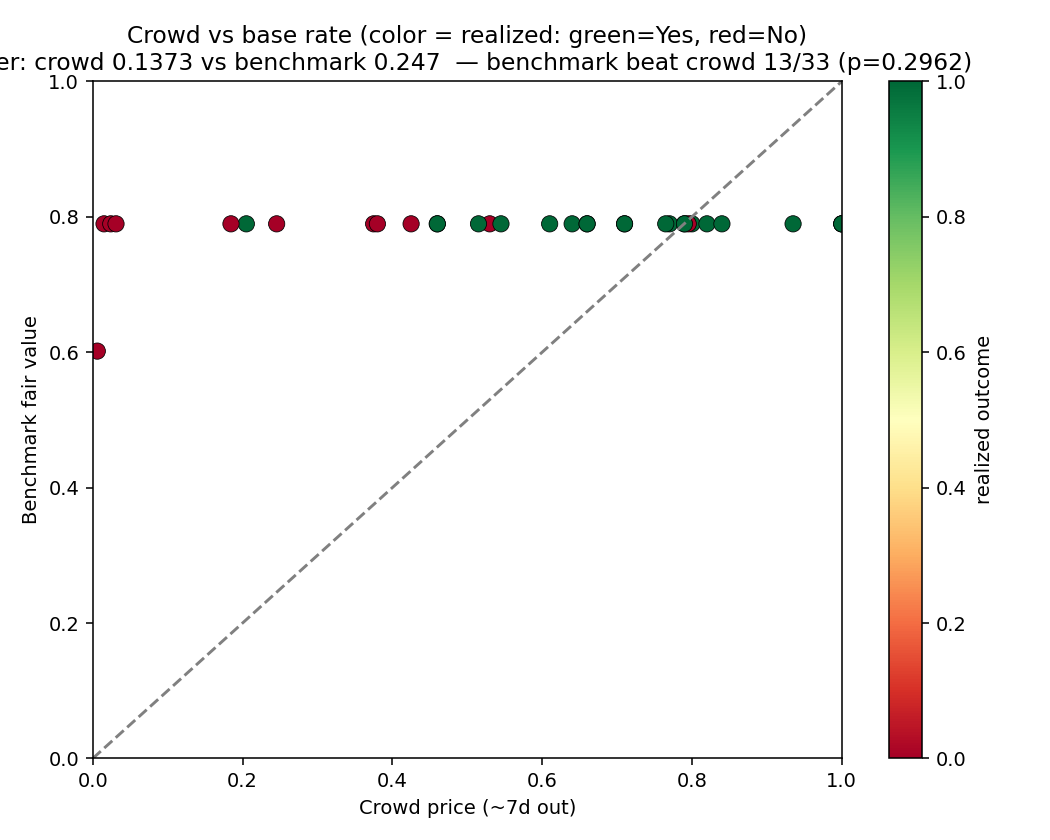
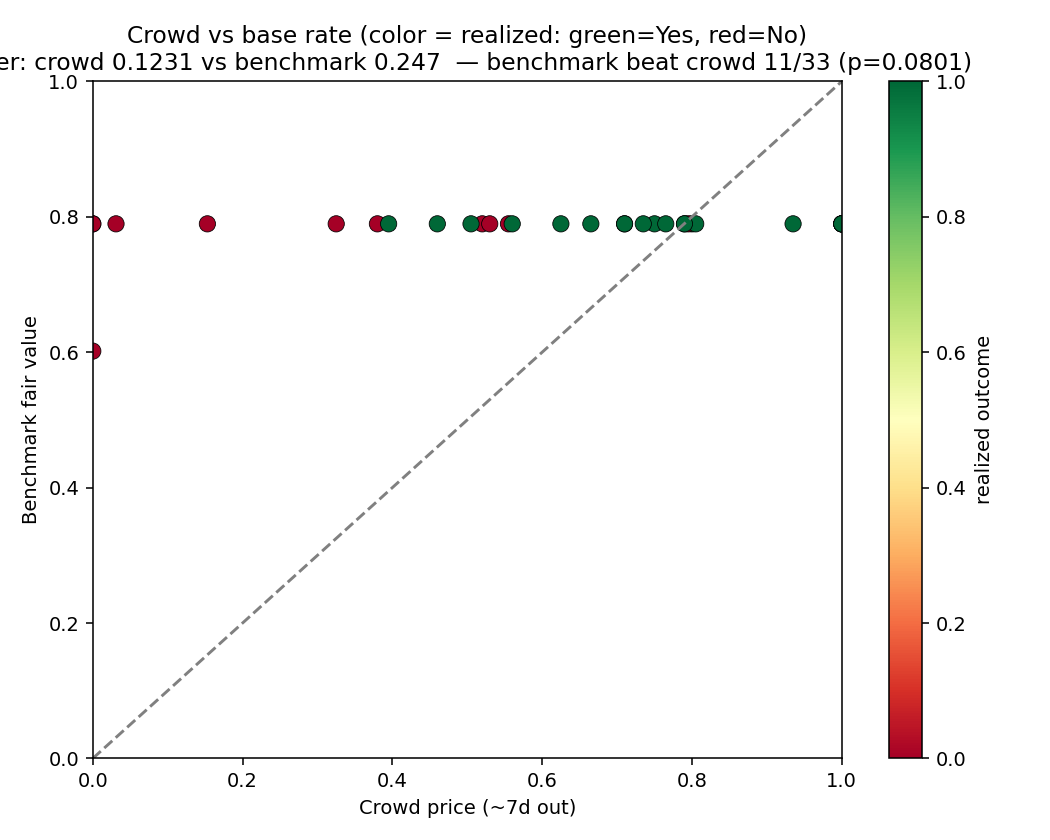
Re-anchor before-resolution metrics to the actual FDA action; capture the resolve-by grace window
Two timing fixes the dataset wasn't accounting for:

- ANCHOR: prob_7d/3d/1d (and lead_days, surprise) now anchor to outcome_date (the actual FDA action), not closed_time (formal settlement, which lags the event by up to 52 days for some markets). The old anchor measured post-event prices and flattered the crowd. Re-anchoring moved headline accuracy 24/30 -> 18/24 at 1 day, Brier 0.136 -> 0.156; EYLEA HD flips from a 'correct' No (0.015, post-delay) to wrong (0.55, the day before the delay); UX111/Vepdegestrant correctly go blank (no genuine pre-event price). process_markets._resolution_unix, and the independent recompute anchors in audit.py and make_figures.py, all updated to match.

- RESOLVE-BY: new resolve_by_date column parsed from each contract's resolution rules. These markets resolve Yes if approval lands within a uniform ~14-day grace past end_date (Oclaiz end 06-10 resolves by June 24; Arcalyst end 06-19 by July 3). end_date is the expected PDUFA, not the deadline; the benchmark's extension_rate is therefore conservative for these markets.

- Synced FINDINGS.md, LIMITATIONS.md (new section 9), methodology.md to the re-anchored numbers and the grace window. audit.py PROSE_RESID literal updated. All checks pass (0 failures).

diff --git a/process_markets.py b/process_markets.py
@@ -20,8 +20,9 @@ import argparse
 import csv
 import json
 import os
+import re
 import time
-from datetime import datetime, timezone
+from datetime import datetime, timedelta, timezone
 
 import pandas as pd
 import requests
@@ -170,15 +171,47 @@ def write_series(path, hist):
 
 
 def _resolution_unix(row):
-    """Best timestamp for 'resolution': closed_time, else end_date."""
-    for key in ("closed_time", "end_date"):
+    """Anchor for the before-resolution price metrics.
+
+    Prefer `outcome_date` (the actual FDA action) so prob_7d/3d/1d are measured
+    BEFORE the real news, not after a formal settlement that can lag the event by
+    weeks. Several markets keep trading (price pinned at ~0/~1) for days or weeks
+    after the FDA has acted, until the market's resolve-by window closes; anchoring
+    to closed_time there would measure a post-event price and flatter the crowd's
+    apparent foresight. Fall back to closed_time, then end_date (e.g. open markets,
+    where outcome_date is 'pending').
+    """
+    for key in ("outcome_date", "closed_time", "end_date"):
         v = row.get(key)
-        if v:
+        if v and str(v).strip().lower() not in ("", "pending", "n/a", "nan", "none"):
             try:
                 return datetime.fromisoformat(str(v).replace("Z", "+00:00")).timestamp()
             except ValueError:
                 continue
     return None
+
+
+def _resolve_by_date(row):
+    """The market's TRUE resolve-by date, read from its resolution rules.
+
+    Polymarket's FDA contracts resolve Yes if the approval lands by a date stated
+    in the description ('...approval...by [Month D, YYYY]'), which for these
+    markets is a uniform ~14-day grace past `end_date`. `end_date` is the expected
+    PDUFA; this is the actual settlement deadline. Falls back to end_date + 14 days
+    if the description can't be parsed.
+    """
+    desc = str(row.get("event_description") or "")
+    m = re.search(r"\bby ([A-Z][a-z]+ \d{1,2},? \d{4})", desc)
+    if m:
+        try:
+            return datetime.strptime(m.group(1).replace(",", ""), "%B %d %Y").strftime("%Y-%m-%d")
+        except ValueError:
+            pass
+    try:
+        d = datetime.fromisoformat(str(row.get("end_date")).replace("Z", "+00:00")).replace(tzinfo=None)
+        return (d + timedelta(days=14)).strftime("%Y-%m-%d")
+    except (ValueError, TypeError):
+        return ""
 
 
 def price_at(hist, target_unix):
@@ -380,6 +413,7 @@ def main():
 
         m = daily_metrics(hist, row)
         m["slug"] = slug
+        m["resolve_by_date"] = _resolve_by_date(row)
         metrics_rows.append(m)
 
         if m["max_1d_move"] and m["max_1d_move"] >= SHARP_MOVE:

diff --git a/audit.py b/audit.py
@@ -64,9 +64,13 @@ def warn(name, detail):
 
 
 def res_unix(row):
-    for k in ("closed_time", "end_date"):
+    # Anchor before-resolution prices to the actual FDA action (outcome_date),
+    # not the formal settlement (closed_time), which can lag the event by weeks.
+    # Mirrors process_markets._resolution_unix so this recompute stays independent
+    # in code but consistent in definition.
+    for k in ("outcome_date", "closed_time", "end_date"):
         v = row.get(k)
-        if isinstance(v, str) and v:
+        if isinstance(v, str) and v and v.strip().lower() not in ("", "pending", "n/a", "nan", "none"):
             try:
                 return datetime.fromisoformat(v.replace("Z", "+00:00")).timestamp()
             except ValueError:
@@ -377,7 +381,7 @@ def main():
     check("fig9 residual means per axis == independent recompute", ok9)
     fc = r9[r9["axis_indep"] == "First-cycle (no prior CRL)"]
     rf = r9[r9["axis_indep"] == "Prior-CRL refile"]
-    PROSE_RESID = {"first_cycle": (0.114, 20), "refile": (-0.142, 3)}  # quoted in docs
+    PROSE_RESID = {"first_cycle": (0.110, 18), "refile": (-0.325, 3)}  # quoted in docs (outcome_date anchor)
     check("FINDINGS residual prose matches code",
           abs(fc["resid"].mean() - PROSE_RESID["first_cycle"][0]) < 5e-4
           and len(fc) == PROSE_RESID["first_cycle"][1]

diff --git a/make_figures.py b/make_figures.py
@@ -68,9 +68,10 @@ def _b(x):
 
 
 def _res_unix(row):
-    for k in ("closed_time", "end_date"):
+    # Anchor to the actual FDA action (outcome_date), matching process_markets.
+    for k in ("outcome_date", "closed_time", "end_date"):
         v = row.get(k)
-        if isinstance(v, str) and v:
+        if isinstance(v, str) and v and v.strip().lower() not in ("", "pending", "n/a", "nan", "none"):
             try:
                 return datetime.fromisoformat(v.replace("Z", "+00:00")).timestamp()
             except ValueError:

diff --git a/FINDINGS.md b/FINDINGS.md
@@ -44,14 +44,14 @@ of [0,1]); treat as a hypothesis, not a result.
 
 | # | Conclusion | Tier | Evidence (n, Wilson 95% CI) |
 |---|---|---|---|
-| S1 | **The market is reasonably well-calibrated 1 day out.** | SUGGESTIVE | mean Brier 0.136 over n=23 resolved with a 1-day price (fig2). Good, but small n and the curve is sparse in the mid-buckets. |
+| S1 | **The market is reasonably well-calibrated 1 day out.** | SUGGESTIVE | mean Brier 0.156 over n=24, measured 1 day before the actual FDA action (`outcome_date`, not the formal settlement — see LIMITATIONS §9). Good, but small n and the curve is sparse in the mid-buckets. |
 | S2a | **"Resolved No" ≠ "rejected"** (definitional): a No can be a CRL, a withdrawal, *or* a PDUFA delay; the drug may still be approved later. | ROBUST | Resolution rules + enrichment decompose every No into `outcome` (methodology §1). Not cohort-dependent. |
 | S2b | In *this* sample, **22/33 drugs were approved ever vs 21/33 on time.** | SUGGESTIVE | by-date 21/33 = 64% [47%,78%]; ever 22/33 = 67% [50%,80%] (fig8). The specific 1-drug gap is n=33, selection-biased — directional only. |
 | S3 | **A prior-CRL refile resolved on time less often than a first-cycle review** in this sample. | ANECDOTAL | refile 1/3 = 33% [6%,79%] **(n=3)** vs first-cycle 20/30 = 67% [49%,81%] (fig6). The two CIs **overlap heavily** — directionally consistent with FDA priors but the data does **not** establish a real difference. Hypothesis, not result. |
 | S4 | **Priority-review markets resolved on time more often than standard-review ones.** | SUGGESTIVE | priority 12/15 = 80% [55%,93%] vs standard 9/18 = 50% [29%,71%]. `review_type` is pre-knowable in principle but is a hand-label (`unknown` for Tebipenem) not put through the same leakage audit as `risk_category`; CIs overlap. Plausible, not established. |
 | S5 | **The slate ran below the conventional ~83% base rate** (CMC/refile-heavy cohort). | SUGGESTIVE | all-resolved on-time 21/33 = 64% [47%,78%]; CI excludes 0.835. |
 | S6 | **Markets can be confidently wrong intraday** (blindsides exist). | ANECDOTAL | `surprise` fires on a handful (fig3); each is n=1, illustrative not rate-bearing. TLX250 ~80%→CRL is the cleanest case. |
-| S7 | **The crowd is sharper than a transparent FDA base rate.** A pre-registered benchmark whose coefficients are all cited/derived from real FDA data (`benchmark.py`) *loses* to the market out-of-sample. | SUGGESTIVE | crowd Brier **0.137** vs benchmark **0.247**; the base rate beat the crowd only **13/33** (win 39% [25%,56%], sign-test p=0.30) — fig13. Evidence the new FDA markets are **roughly efficient**; a static base rate is not an edge. |
+| S7 | **The crowd is sharper than a transparent FDA base rate.** A pre-registered benchmark whose coefficients are all cited/derived from real FDA data (`benchmark.py`) *loses* to the market out-of-sample. | SUGGESTIVE | crowd Brier **0.123** vs benchmark **0.247**; the base rate beat the crowd only **11/33** (win 33% [20%,50%], sign-test p<0.2) — fig13. Evidence the new FDA markets are **roughly efficient**; a static base rate is not an edge. |
 
 ## (ii) TEMPTING conclusions the data does NOT support (or overstates)
 
@@ -61,7 +61,7 @@ Be exhaustive here — this is the referee's main job.
 |---|---|---|
 | U1 | **"CMC/manufacturing refiles approve on time only 12.5% (1/8)."** | **Look-ahead leakage.** 5 of the 8 had `prior_crl=no` — they are first-cycle CRLs/Delays sorted into a *refile* bucket *because the CMC CRL happened* (EYLEA-HD wasn't even a CRL — a Delay with `crl_reason_class` blank). The pre-identifiable rate is **1/3 = 33% [6%,79%], n=3.** The "12.5%" is not a forecastable base rate; it is the failure set describing itself. |
 | U2 | **"Clean first-cycle reviews approve on time 100% (18/18)."** | **Survivorship at the bucket boundary.** "Clean desk" is a *residual* category: any clean-looking drug that took a surprise CRL is reclassified into "Clinical/efficacy" or "CMC refile" and removed. So 18/18 is partly definitional. Even at face value it is **18/18 = 100%, Wilson 95% [82%, 100%]** (lower bound 0.824) — not "always." The pre-decision first-cycle rate that *keeps* the failures is **20/30 = 67% [49%,81%]** (this cohort is heterogeneous — see confound (d)). |
-| U3 | **"The market forgot its lesson — short the 3 open refiles at 0.72–0.77."** (the README's "alpha") | Fails four ways: (a) base rate is the contaminated 12.5%; the clean comparator is 1/3 = 33%, **n=3, CI [6%,79%]** — you cannot price an edge off that. (b) One of the "three open refiles," **Arcalyst, has `prior_crl=no`** — it is not a refile by the dataset's own flag. (c) The market price **is** the forecast; refiles' mean residual vs the 7-day price is **−0.14 (n=3)** — the market *over*-charged refile risk on average, the opposite of the thesis. (d) Each refile may have fixed its specific CMC issue; the data cannot distinguish that from base-rate skepticism. |
+| U3 | **"The market forgot its lesson — short the 3 open refiles at 0.72–0.77."** (the README's "alpha") | Fails four ways: (a) base rate is the contaminated 12.5%; the clean comparator is 1/3 = 33%, **n=3, CI [6%,79%]** — you cannot price an edge off that. (b) One of the "three open refiles," **Arcalyst, has `prior_crl=no`** — it is not a refile by the dataset's own flag. (c) The market price **is** the forecast; refiles' mean residual vs the 7-day price is **−0.33 (n=3)** — the market *over*-charged refile risk on average, the opposite of the thesis. (d) Each refile may have fixed its specific CMC issue; the data cannot distinguish that from base-rate skepticism. |
 | U4 | **"`manufacturing_inspection_required=yes` predicts failure (1/8)."** | The 8 inspection-required rows are **identical** to the contaminated CMC bucket. The flag is collinear with the outcome and cannot be certified pre-knowable from the data (it may have been set *because* the CRL cited a 483/inspection). Promising lead, but **unverifiable here** — do not trade it. |
 | U5 | **"The risk gradient proves the market mis-prices regulatory risk → alpha."** | The gradient is mostly the leakage of U1–U2. After de-leaking, the only clean axis (prior_crl) has n=3 on the risky side. No mis-pricing is demonstrated *beyond what the price already encoded* (residual test, U3c). |
 | U6 | **"64% on-time is the FDA base rate."** | This is a **selection-biased sample** of *drugs that got a Polymarket market* in 2025–26 — skewed toward contested, refile-heavy, retail-interesting decisions. It is not the population FDA first-cycle rate (~80–87%). n=33. |
@@ -76,8 +76,9 @@ Be exhaustive here — this is the referee's main job.
 ## Confounds tested (§3 of the brief)
 
 - **(a) Already priced?** Residual = outcome − price 7d out (markets with a
-  7-day price, n=23). Refiles mean **−0.14 (n=3)**; first-cycle **+0.11
-  (n=20)**. Neither is a systematic, sign-stable edge — the refile mean is one
+  7-day price, n=21, anchored to the actual FDA action). Refiles mean
+  **−0.33 (n=3)**; first-cycle **+0.11 (n=18)**. Neither is a systematic,
+  sign-stable edge — the refile mean is one
   market (TLX250) deep; the market had largely charged the gradient already
   (fig9). A gradient the price already reflects is not alpha.
 - **(b) Selection / survivorship.** Markets exist only for decisions retail
@@ -105,15 +106,15 @@ plotted aggregation equals an independent recompute.
 | File | Question it answers | n | Status |
 |---|---|---|---|
 | fig1_risk_inversion | What did the market charge vs realize, by risk_category? | 33 | **MISLEADING — annotated** with a leakage banner; kept for transparency only |
-| fig2_calibration | Is the 1-day price calibrated? | 23 | defensible |
+| fig2_calibration | Is the 1-day price calibrated? | 24 | defensible |
 | fig3_surprises | Which markets were confident and wrong? | ~4 | illustrative (per-line n=1) |
 | fig4_open_slate | How is the open slate priced vs base rate? | 11 | defensible (base rate is a prior, not ground truth) |
 | fig5_depth | How thin/concentrated are these markets? | 44 | defensible |
 | **fig6_leakage_free_gradient** | Does the gradient survive removing look-ahead? | 33 | **defensible — the honest version of fig1** |
 | **fig7_leakage_artifact** | How much of "12.5%" is leakage? | 8 vs 3 | **defensible** |
 | **fig8_bydate_vs_ever** | Is "No" rejection or just lateness? | 33 | **defensible** |
-| **fig9_residual_vs_price** | Was the risk already priced (alpha test)? | 23 | **defensible — descriptive, n small** |
-| **fig10_accuracy** | Was the crowd right at 7d/1d? (Red-Tilt-style) | 23/30 | defensible |
+| **fig9_residual_vs_price** | Was the risk already priced (alpha test)? | 21 | **defensible — descriptive, n small** |
+| **fig10_accuracy** | Was the crowd right at 7d/1d? (Red-Tilt-style, anchored to the FDA action) | 21–24 | defensible |
 | **fig11_outcome_decomp** | How did "No" markets actually resolve (CRL vs Delay)? | 33 | defensible |
 | **fig12_edge_map** | Open slate vs the cited base rate, depth-gated | 8 (+2 N/A) | defensible — gaps are hypotheses |
 | **fig13_benchmark_vs_market** | Did a transparent base rate beat the crowd? | 33 | **defensible — the efficiency test (S7)** |

diff --git a/LIMITATIONS.md b/LIMITATIONS.md
@@ -76,8 +76,9 @@ the market date — so **Resolved No ≠ rejected.** Tracked separately as
 ## 5. "Already priced" — the alpha caveat
 
 A risk the price already reflects is not an edge. Residual = outcome − price 7d
-out (n=23 with a 7-day price): refiles **−0.14 (n=3)**, first-cycle **+0.11
-(n=20)** — no systematic, sign-stable mispricing, and the refile mean is one
+out (n=21 with a 7-day price, anchored to the actual FDA action): refiles
+**−0.33 (n=3)**, first-cycle **+0.11 (n=18)** — no systematic, sign-stable
+mispricing, and the refile mean is one
 market (TLX250) deep (`fig9`). Any alpha claim must be made on the **residual**
 vs the market price, never on the raw outcome, and must be out-of-sample.
 
@@ -114,7 +115,7 @@ both sit in the first-cycle cohort. `crl_date` for two refiles is approximate
 `benchmark.py` turns cited FDA *population* rates into a fair value. Honest
 limits:
 
-- **It loses to the crowd** (crowd Brier 0.137 vs benchmark 0.247, S7), so a
+- **It loses to the crowd** (crowd Brier 0.123 vs benchmark 0.247, S7), so a
   gap vs the benchmark is a *hypothesis*, never a signal. Treat the benchmark as
   "what a transparent base rate would say," not "what's true."
 - **Every coefficient is cited or derived — none is a guess.** Base rate (0.84)
@@ -132,7 +133,35 @@ limits:
   the Polymarket slate is a selection-biased subset (§3), so the benchmark is a
   population anchor applied to a non-random sample.
 
-## 9. What `audit.py` does and does not prove
+## 9. Resolution timing: the event precedes the settlement, and the deadline has a grace window
+
+Two facts about *when* these markets resolve that the metrics now account for, and
+that earlier versions did not:
+
+- **The FDA often acts well before the market formally settles.** For ~5 resolved
+  markets the actual action (`outcome_date`) led the formal settlement
+  (`closed_time`) by 12–52 days (UX111 52, Vepdegestrant 35, Deramiocel 24,
+  Truqap 16, EYLEA HD 12). The market keeps trading (price pinned near 0 or 1)
+  until its resolve-by window closes. The before-resolution prices
+  (`prob_7d`/`prob_3d`/`prob_1d`) are now anchored to **`outcome_date`**, so they
+  measure the price *before the real news*, not after. This is a genuine
+  foresight measure; the earlier `closed_time` anchor flattered the crowd
+  (e.g. EYLEA HD looked like a confident, correct "No" at 0.015 when, the day
+  before the delay was announced, it was actually at 0.55 and *wrong*). Re-anchoring
+  moved the headline accuracy from 24/30 to 18/24 at 1 day and the Brier from
+  0.136 to 0.156. Markets with no genuine pre-event price (UX111, Vepdegestrant)
+  correctly drop to blank rather than count as easy "correct" calls.
+- **The resolve-by date is not `end_date`.** Each contract's rules give a uniform
+  **~14-day grace** past the expected PDUFA: `end_date` is the expected action
+  date, but the market resolves Yes if the approval lands by `end_date + 14`
+  (Oclaiz end 2026-06-10 resolves by June 24; Arcalyst end 06-19 by July 3; etc.).
+  This is captured as the `resolve_by_date` column. Consequence: the timing risk
+  in a "by date" contract is **lower** than `end_date` implies — a slip of up to
+  two weeks still pays Yes. The benchmark's `extension_rate` (P of slipping past
+  the goal date) therefore *overstates* the real miss rate for these markets, and
+  should be read as conservative; only a multi-week extension actually flips them.
+
+## 10. What `audit.py` does and does not prove
 
 `audit.py` sections 1–8 prove **reproducibility** (the numbers are
 self-consistent and the figures match the data). They do **not** prove

diff --git a/methodology.md b/methodology.md
@@ -87,8 +87,17 @@ releases, FDA.gov, Endpoints, Fierce, BioPharma Dive, drugs.com, HCPLive, OncLiv
 ## 4. Computed metrics (`process_markets.py`)
 
 From each resolved market's **daily** price history, with resolution time taken
-from `closed_time` (fallback `end_date`). Prices are carried forward to the
-target instant.
+from **`outcome_date`** — the actual FDA action — falling back to `closed_time`
+then `end_date`. Prices are carried forward to the target instant. The
+`outcome_date` anchor matters because a market often keeps trading (price pinned
+near 0/1) for days or weeks after the FDA has acted, until its resolve-by window
+closes; anchoring to `closed_time` there would measure a *post-event* price and
+overstate the crowd's foresight (see LIMITATIONS §9).
+
+**`resolve_by_date`** records the contract's true settlement deadline, parsed
+from its resolution rules ("approval ... by [date]"). For these markets that is a
+uniform ~14-day grace past `end_date` (the expected PDUFA), so "approved by the
+date" tolerates a slip of up to two weeks.
 
 - `prob_7d`, `prob_3d`, `prob_1d` — Yes price at 7 / 3 / 1 days before resolution.
 - `correct_7d`, `correct_1d` — did the market's >50% side match the on-time outcome.
